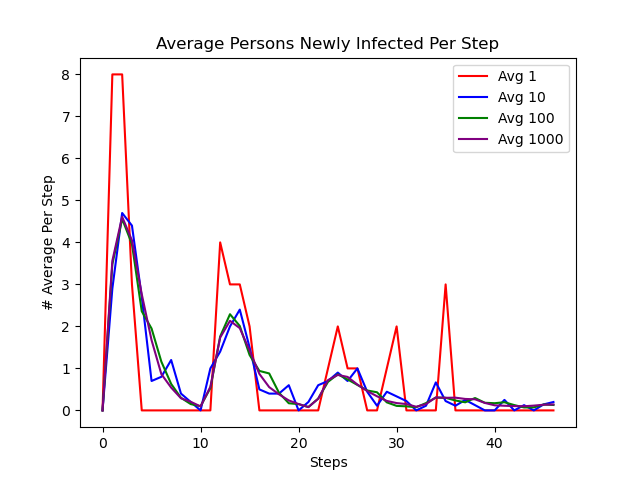
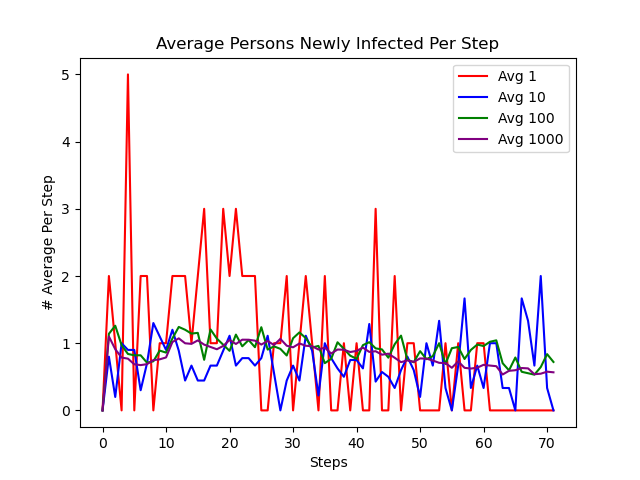
Test sim with 50x50

diff --git a/main.py b/main.py
@@ -5,14 +5,14 @@ import numpy as np
 import matplotlib.pyplot as plt
 
 #Global Variables Affecting Simulation
-boardSIZE = 10
+boardSIZE = 50
 infectionRadius = 1     #Radius of potential infection
 steps = 20              #Steps until death or recovery chance
 deathchance = 10        #Percent chance of death
 recoverychance = 90     #Percent chance of recovery
 resilience = 0 #Used to determine potential chance of infection
-SocDist = 10             #Allowed amount of steps for social distancing
-numOfPeople = 20        #Population of people on grid
+SocDist = 50             #Allowed amount of steps for social distancing
+numOfPeople = 100       #Population of people on grid
 grid=[]                 #List to make grid matrix
 people=[]               #List to hold person objects
 numInfected = 1         #Counter for number of infected people
@@ -208,7 +208,7 @@ def initSim():
     global grid
     global people
     grid = [[0 for i in range(cols)] for j in range(rows)] 
-#print(grid)
+##print(grid)
     for i in range(numOfPeople):
         tempx = 0
         tempy = 0
@@ -223,8 +223,8 @@ def initSim():
     people[random.randrange(0,len(people)-1)].infected = True
     #for p in grid:
         #for element in p:
-           #print(element, end=' ')
-        #print()
+           ##print(element, end=' ')
+        ##print()
 
 def resetVars():
     global grid
@@ -311,7 +311,7 @@ def runSim(mode,list1,list2,list3 =[],list4=[],list5=[],list6=[],death=0,recover
 
 
 
-    #print(timestep)
+    ##print(timestep)
     list1.append(newInfected)
     list2.append(alreadyInfected)
 
@@ -323,9 +323,9 @@ def runSim(mode,list1,list2,list3 =[],list4=[],list5=[],list6=[],death=0,recover
         list6.append(newRecovered)
     """for p in grid:
         for element in p:
-            print(element, end=' ')
-        print()    
-    print()"""
+            #print(element, end=' ')
+        #print()    
+    #print()"""
     resetVars()
 
 
@@ -419,16 +419,16 @@ tempDF2 = pd.DataFrame(totalAvgNewInfected)
 partAGotInfected["Avg 1000"] = tempDF2.mean(axis = 0)
 partAAlreadyInfected["Avg 1000"] = tempDF.mean(axis = 0)
 
-print(partAGotInfected)
-print()
-print(partAAlreadyInfected)
+#print(partAGotInfected)
+#print()
+#print(partAAlreadyInfected)
 
 
 
 #--------------------------PART B----------------------------
 resetDfs()
-print("Part B")
-print()
+#print("Part B")
+#print()
 
 partBGotInfected = pd.DataFrame()
 partBAlreadyInfected = pd.DataFrame()
@@ -514,13 +514,13 @@ partBAvgRecoveredStep["Avg 1000"] = tempDF6.mean(axis=0)
 
 #tempDF = pd.DataFrame()
 
-#print("Got Infected")
-print(partBGotInfected)
+##print("Got Infected")
+#print(partBGotInfected)
 
 
-#print("Already Infected")
-print()
-#print(partBAlreadyInfected)
+##print("Already Infected")
+#print()
+##print(partBAlreadyInfected)
 
 #Need to fix dataframe or redo AvgDied and AvgRecovered since graph formatting off
 
@@ -559,7 +559,7 @@ plt.savefig('partBAvgRecovered.png', transparent=True)
 plt.show()
 
 ax = plt.gca()
-print(partBAvgRecovered)
+#print(partBAvgRecovered)
 plt.title('Average Persons Recovered Per Step')
 plt.xlabel('Steps')
 plt.ylabel('# Average Per Step')
@@ -596,12 +596,12 @@ plt.show()
 #--------------------------PART C ----------------------------
 resetDfs()
 
-print("Part C")
-print()
+#print("Part C")
+#print()
 steps=10
 deathchance=50
 recoverychance=50
-infectionRadius=2
+infectionRadius=3
 
 partCGotInfected = pd.DataFrame()
 partCAlreadyInfected = pd.DataFrame()
@@ -687,13 +687,13 @@ partCAvgRecoveredStep["Avg 1000"] = tempDF6.mean(axis=0)
 
 #tempDF = pd.DataFrame()
 
-#print("Got Infected")
-print(partCGotInfected)
+##print("Got Infected")
+#print(partCGotInfected)
 
 
-#print("Already Infected")
-print()
-#print(partCAlreadyInfected)
+##print("Already Infected")
+#print()
+##print(partCAlreadyInfected)
 
 #Need to fix dataframe or redo AvgDied and AvgRecovered since graph formatting off
 
@@ -732,7 +732,7 @@ plt.savefig('partCAvgRecovered.png', transparent=True)
 plt.show()
 
 ax = plt.gca()
-print(partCAvgRecovered)
+#print(partCAvgRecovered)
 plt.title('Average Persons Recovered Per Step')
 plt.xlabel('Steps')
 plt.ylabel('# Average Per Step')
@@ -768,13 +768,13 @@ plt.show()
 #--------------------------PART D ----------------------------
 resetDfs()
 
-print("Part C")
-print()
+#print("Part D")
+#print()
 steps=20
 deathchance=10
 recoverychance=90
 infectionRadius=1
-SocDist = 2
+SocDist = 10
 resilience = 50
 
 partDGotInfected = pd.DataFrame()
@@ -861,13 +861,13 @@ partDAvgRecoveredStep["Avg 1000"] = tempDF6.mean(axis=0)
 
 #tempDF = pd.DataFrame()
 
-#print("Got Infected")
-print(partDGotInfected)
+##print("Got Infected")
+#print(partDGotInfected)
 
 
-#print("Already Infected")
-print()
-#print(partDAlreadyInfected)
+##print("Already Infected")
+#print()
+##print(partDAlreadyInfected)
 
 #Need to fix dataframe or redo AvgDied and AvgRecovered since graph formatting off
 
@@ -906,7 +906,7 @@ plt.savefig('partDAvgRecovered.png', transparent=True)
 plt.show()
 
 ax = plt.gca()
-print(partDAvgRecovered)
+#print(partDAvgRecovered)
 plt.title('Average Persons Recovered Per Step')
 plt.xlabel('Steps')
 plt.ylabel('# Average Per Step')
